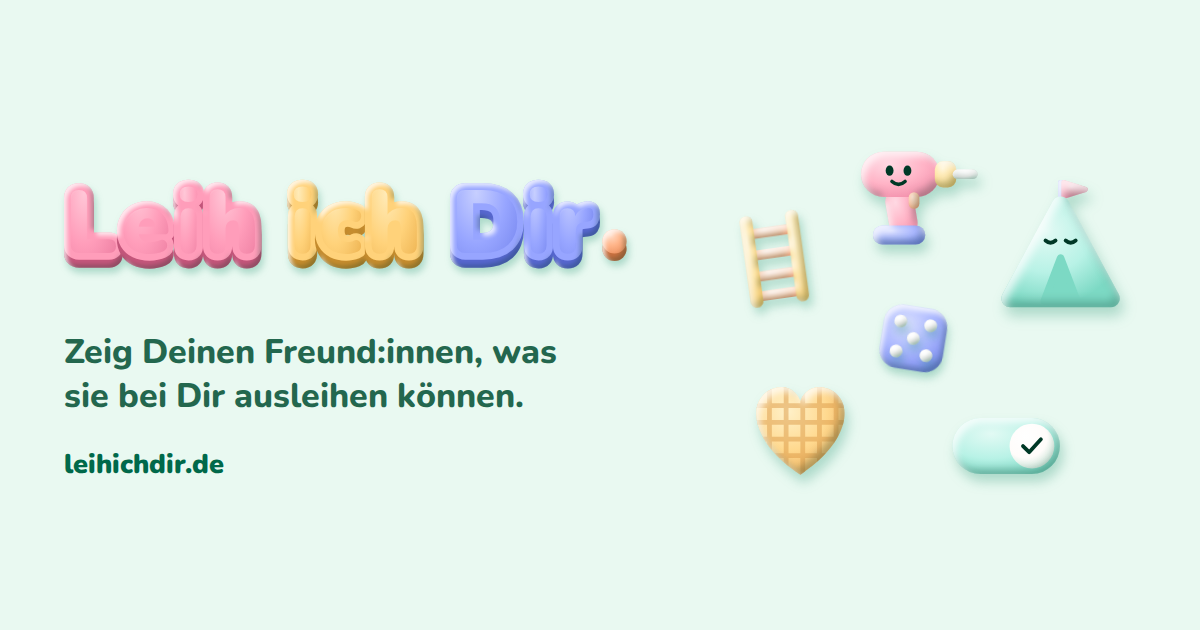
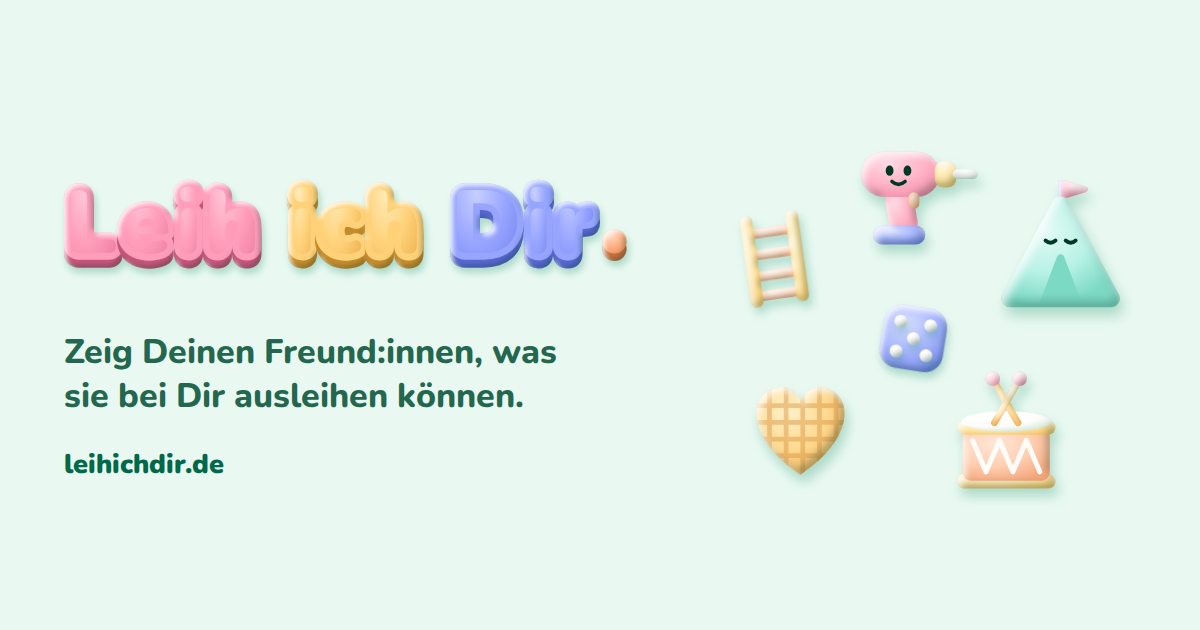
Startseite: eine kleine Trommel statt des Schalters
Unter den sechs Dingen im Hero stand ein Schalter, der sich beim
Antippen umlegte. An seiner Stelle steht jetzt eine kleine Trommel aus
Knete: Korpus in Pfirsich mit heller Schnuerung, Raender in Butter, ein
helles Fell, darueber zwei gekreuzte Schlegel. Sie springt wie die
anderen Dinge.

Sie ist das eine Ding, das klingt: ein kurzer, leiser Schlag, und nur,
wenn in den Einstellungen Toene eingeschaltet sind. Der Schlag geht
durch ton(), das diese Bedingung selbst prueft; der neue Klang
"trommel" ist ein heller Anschlag ueber einem tiefen, fallenden Ton,
weil Telefonlautsprecher den tiefen allein kaum wiedergeben. Er haengt
nicht an der Bewegung: Wer Bewegung abbestellt hat, hoert ihn trotzdem,
nur springt nichts.

Die Zusage "die Startseite bleibt ruhig, kein Ton" gilt damit bis auf
diese eine, ausdruecklich gewuenschte Ausnahme. Kommentare in app.js
und index.html sowie das README sagen es so; das README zaehlt jetzt
fuenf Klaenge statt vier.

Die Regeln und die Logik des Schalters sind fort (ding__spur,
ding__knauf, ding__haken, ist-aus). og.png ist mit tools/bilder.mjs
neu erzeugt, der Alternativtext in vier Seiten nachgezogen.

Tests: heroknete.mjs prueft, dass statt des Schalters eine Trommel
steht, dass sie springt und klingt, wenn Toene eingeschaltet sind, und
still bleibt, wenn nicht; die Leiter bleibt auch bei eingeschalteten
Toenen still. Gegenprobe: klingt nie, klingt immer — beide an ihrer
Stelle gefunden. Batterie: 31 Suiten, 0 mit offenen Punkten.
[…]

Changed region(s): [[0.8017, 0.6032, 0.8942, 0.8143]]

diff --git a/index.html b/index.html
@@ -42,13 +42,13 @@
 <meta property="og:image:type" content="image/png">
 <meta property="og:image:width" content="1200">
 <meta property="og:image:height" content="630">
-<meta property="og:image:alt" content="Die Wortmarke Leih ich Dir. aus Knete, daneben schweben sechs Dinge zum Verleihen: Bohrmaschine, Leiter, Zelt, Würfel, Waffeleisen und ein Schalter.">
+<meta property="og:image:alt" content="Die Wortmarke Leih ich Dir. aus Knete, daneben schweben sechs Dinge zum Verleihen: Bohrmaschine, Leiter, Zelt, Würfel, Waffeleisen und eine kleine Trommel.">
 <!-- Ohne diese Angabe zeigen Slack, Discord und X ein Randbildchen statt der grossen Karte. -->
 <meta name="twitter:card" content="summary_large_image">
 <meta name="twitter:title" content="LeihIchDir · Dinge an Freunde verleihen, ohne Konto">
 <meta name="twitter:description" content="Trage ein, was Du verleihst, und schick Deinen Freund:innen einen Link. Verschlüsselt im Browser, ohne Konto.">
 <meta name="twitter:image" content="https://leihichdir.de/assets/pics/og.png">
-<meta name="twitter:image:alt" content="Die Wortmarke Leih ich Dir. aus Knete, daneben schweben sechs Dinge zum Verleihen: Bohrmaschine, Leiter, Zelt, Würfel, Waffeleisen und ein Schalter.">
+<meta name="twitter:image:alt" content="Die Wortmarke Leih ich Dir. aus Knete, daneben schweben sechs Dinge zum Verleihen: Bohrmaschine, Leiter, Zelt, Würfel, Waffeleisen und eine kleine Trommel.">
 <!-- Strukturierte Angaben zur Anwendung.
 
      Warum das unter dieser CSP geht: Nicht weil script-src es erlaubte,
@@ -444,7 +444,8 @@
            Kissen und ohne Rahmen. Es traegt keine Aussage, die nicht schon
            im Satz stuende, und ist deshalb fuer Vorleseprogramme verborgen
            und nicht anwaehlbar. Wer ein Ding anfasst, bringt es zum
-           Springen (app.js, 8a); mehr geschieht nicht. Das Bild steht im
+           Springen (app.js, 8a); die Trommel klingt dazu leise, wenn Toene
+           eingeschaltet sind, mehr geschieht nicht. Das Bild steht im
            Dokument und nicht in einem <img>: Nur so erreichen es die Farben
            aus style.css und der Wechsel zwischen hell und dunkel. Das alte
            Bild, die Pfote, liegt in archiv/alter-stil/pics/. -->
@@ -536,15 +537,21 @@
             </span>
           </li>
           <li>
-            <span class="ding ding--schalter" data-ding="schalter">
+            <!-- Eine kleine Trommel. Sie springt wie die anderen; wer Toene
+                 eingeschaltet hat, hoert dazu einen leisen Schlag (app.js, 8a). -->
+            <span class="ding" data-ding="trommel">
               <svg viewBox="0 0 120 120" focusable="false">
                 <g class="ding__feder">
                   <g filter="url(#knete)">
-                    <rect class="ding__spur" x="12" y="42" width="96" height="50" rx="25"/>
-                    <g class="ding__knauf">
-                      <circle cx="83" cy="67" r="20" fill="url(#v-milch)"/>
-                      <path class="ding__haken" d="M75 67l5.5 5.5L91 61"/>
-                    </g>
+                    <rect x="16" y="92" width="88" height="13" rx="6.5" fill="url(#v-butter)"/>
+                    <rect x="21" y="52" width="78" height="46" rx="8" fill="url(#v-pfirsich)"/>
+                    <path class="trommel__schnur" d="M30 62L42 90L54 62L66 90L78 62L90 90"/>
+                    <rect x="16" y="44" width="88" height="13" rx="6.5" fill="url(#v-butter)"/>
+                    <ellipse cx="60" cy="45" rx="40" ry="9" fill="url(#v-milch)"/>
+                    <rect x="57" y="4" width="6" height="48" rx="3" fill="url(#v-waffel)" transform="rotate(-30 60 28)"/>
+                    <rect x="57" y="4" width="6" height="48" rx="3" fill="url(#v-waffel)" transform="rotate(30 60 28)"/>
+                    <circle cx="48" cy="7" r="6.5" fill="url(#v-kaugummi)"/>
+                    <circle cx="72" cy="7" r="6.5" fill="url(#v-kaugummi)"/>
                   </g>
                 </g>
               </svg>

diff --git a/app.js b/app.js
@@ -2799,8 +2799,9 @@
    * federt, haengt an einem Takt (requestAnimationFrame); er schlaeft, sobald
    * nichts mehr schwingt, und haelt an, solange der Reiter verborgen ist.
    *
-   * Gefeiert wird hier nichts, kein Konfetti und kein Ton: Die Startseite
-   * traegt das Vertrauensversprechen und bleibt ruhig. Wer Bewegung
+   * Gefeiert wird hier nichts, kein Konfetti: Die Startseite traegt das
+   * Vertrauensversprechen und bleibt ruhig. Einen Ton gibt es nur bei der
+   * Trommel, und nur fuer den, der Toene eingeschaltet hat. Wer Bewegung
    * abbestellt hat (ruhig()), bekommt keine, und die Daueranimationen haelt
    * das Stylesheet an. Das gilt auch fuer den Auftritt am Ende des
    * Abschnitts: Dinge, Wortmarke und Satz erscheinen beim ersten Zeigen
@@ -2864,8 +2865,8 @@
    * zusaetzlich auf den Klick und sprang nach einem langen Druck zweimal;
    * hier gibt es keinen Klick, denn die Dinge sind keine Schaltflaechen. */
 
-  var SPRUNG = { bohr: 1, leiter: 1.5, zelt: 0.85, wuerfel: 1.1, waffel: 0.9, schalter: 1 };
-  var DREHUNG = { bohr: 2.4, leiter: 0.8, zelt: 1, wuerfel: 3, waffel: 1.2, schalter: 0.6 };
+  var SPRUNG = { bohr: 1, leiter: 1.5, zelt: 0.85, wuerfel: 1.1, waffel: 0.9, trommel: 1.2 };
+  var DREHUNG = { bohr: 2.4, leiter: 0.8, zelt: 1, wuerfel: 3, waffel: 1.2, trommel: 0.8 };
 
   function Ding(node) {
     this.node = node;
@@ -2889,7 +2890,10 @@
   Ding.prototype.los = function (springen) {
     if (!this.gedrueckt) { return; }
     this.gedrueckt = false;
-    if (springen && this.art === 'schalter') { this.node.classList.toggle('ist-aus'); }
+    /* Die Trommel klingt, wenn Toene eingeschaltet sind; ton() fragt das
+       selbst. Unabhaengig von der Bewegung: Wer sie abbestellt hat, hoert
+       den Schlag trotzdem, nur springt nichts. */
+    if (springen && this.art === 'trommel') { ton('trommel'); }
     if (springen && !ruhig()) {
       this.s.v += 4.2;
       this.vy = -330 * (SPRUNG[this.art] || 1);
@@ -3531,7 +3535,11 @@
     plopp: [{ f: 660, bis: 880, ms: 90,  ab: 0 }],
     weg:   [{ f: 392, ms: 120, ab: 0 }],
     heim:  [{ f: 587, ms: 90,  ab: 0 }, { f: 880, ms: 90, ab: 110 }],
-    tada:  [{ f: 523, ms: 80,  ab: 0 }, { f: 659, ms: 80, ab: 80 }, { f: 784, ms: 110, ab: 160 }]
+    tada:  [{ f: 523, ms: 80,  ab: 0 }, { f: 659, ms: 80, ab: 80 }, { f: 784, ms: 110, ab: 160 }],
+    /* Ein Schlag auf die Trommel der Startseite: ein kurzer heller Anschlag
+       und darunter ein tiefer Ton, der faellt. Der helle Teil ist da, weil
+       Telefonlautsprecher den tiefen allein kaum wiedergeben. */
+    trommel: [{ f: 420, bis: 300, ms: 40, ab: 0 }, { f: 170, bis: 70, ms: 170, ab: 0 }]
   };
 
   function tonAn() {

diff --git a/style.css b/style.css
@@ -766,7 +766,7 @@ header.site { padding-block: var(--s-4); }
 .dinge li:nth-child(3) { left: 64%; top: 15%; width: 36%; }   /* Zelt */
 .dinge li:nth-child(4) { left: 35%; top: 42%; width: 24%; }   /* Wuerfel */
 .dinge li:nth-child(5) { left: 3%;  top: 59%; width: 34%; }   /* Waffeleisen */
-.dinge li:nth-child(6) { left: 53%; top: 64%; width: 32%; }   /* Schalter */
+.dinge li:nth-child(6) { left: 53%; top: 64%; width: 32%; }   /* Trommel */
 .ding {
   display: block; width: 100%; aspect-ratio: 1;
   cursor: pointer; -webkit-tap-highlight-color: transparent; touch-action: manipulation;
@@ -823,12 +823,8 @@ header.site { padding-block: var(--s-4); }
 .gesicht__mund, .gesicht--schlaf path { fill: none; stroke: var(--tinte); stroke-width: 3; stroke-linecap: round; }
 .zelt__tuer { fill: var(--minze-satt); stroke: var(--minze-satt); }
 .waffel__gitter path { fill: none; stroke: var(--waffel-gitter); stroke-width: 4; opacity: .5; }
-.ding__spur { fill: url(#v-minze); }
-.ding__knauf { transition: transform .6s var(--feder); }
-.ding__haken { fill: none; stroke: var(--tinte); stroke-width: 3.4; stroke-linecap: round; stroke-linejoin: round; transition: opacity .2s ease; }
-.ding--schalter.ist-aus .ding__spur { fill: url(#v-pfirsich); }
-.ding--schalter.ist-aus .ding__knauf { transform: translateX(-46px); }
-.ding--schalter.ist-aus .ding__haken { opacity: 0; }
+/* Die Schnuerung der Trommel: helle Knete auf dem Korpus, auch im Dunkeln. */
+.trommel__schnur { fill: none; stroke: var(--milch); stroke-width: 4.5; stroke-linecap: round; stroke-linejoin: round; }
 
 /* Vier Zusagen mit Haken, als Plaketten aus Knete auf dem Grund. Der Haken
    steht in einer Minzkugel, weil er dasselbe sagt wie in der Liste: hier

diff --git a/ueber.html b/ueber.html
@@ -39,13 +39,13 @@
 <meta property="og:image:type" content="image/png">
 <meta property="og:image:width" content="1200">
 <meta property="og:image:height" content="630">
-<meta property="og:image:alt" content="Die Wortmarke Leih ich Dir. aus Knete, daneben schweben sechs Dinge zum Verleihen: Bohrmaschine, Leiter, Zelt, Würfel, Waffeleisen und ein Schalter.">
+<meta property="og:image:alt" content="Die Wortmarke Leih ich Dir. aus Knete, daneben schweben sechs Dinge zum Verleihen: Bohrmaschine, Leiter, Zelt, Würfel, Waffeleisen und eine kleine Trommel.">
 <!-- Ohne diese Angabe zeigen Slack, Discord und X ein Randbildchen statt der grossen Karte. -->
 <meta name="twitter:card" content="summary_large_image">
 <meta name="twitter:title" content="Über LeihIchDir · Was der Server sieht">
 <meta name="twitter:description" content="Wie LeihIchDir die Liste im Browser verschlüsselt und was auf dem Server ankommt.">
 <meta name="twitter:image" content="https://leihichdir.de/assets/pics/og.png">
-<meta name="twitter:image:alt" content="Die Wortmarke Leih ich Dir. aus Knete, daneben schweben sechs Dinge zum Verleihen: Bohrmaschine, Leiter, Zelt, Würfel, Waffeleisen und ein Schalter.">
+<meta name="twitter:image:alt" content="Die Wortmarke Leih ich Dir. aus Knete, daneben schweben sechs Dinge zum Verleihen: Bohrmaschine, Leiter, Zelt, Würfel, Waffeleisen und eine kleine Trommel.">
 <!-- Die Schrift, die sofort zu sehen ist, wird vorab geholt; eine Datei traegt alle Staerken. -->
 <link rel="preload" href="assets/fonts/nunito.woff2" as="font" type="font/woff2" crossorigin>
 <link rel="stylesheet" href="assets/fonts/fonts.css">

diff --git a/datenschutz.html b/datenschutz.html
@@ -39,13 +39,13 @@
 <meta property="og:image:type" content="image/png">
 <meta property="og:image:width" content="1200">
 <meta property="og:image:height" content="630">
-<meta property="og:image:alt" content="Die Wortmarke Leih ich Dir. aus Knete, daneben schweben sechs Dinge zum Verleihen: Bohrmaschine, Leiter, Zelt, Würfel, Waffeleisen und ein Schalter.">
+<meta property="og:image:alt" content="Die Wortmarke Leih ich Dir. aus Knete, daneben schweben sechs Dinge zum Verleihen: Bohrmaschine, Leiter, Zelt, Würfel, Waffeleisen und eine kleine Trommel.">
 <!-- Ohne diese Angabe zeigen Slack, Discord und X ein Randbildchen statt der grossen Karte. -->
 <meta name="twitter:card" content="summary_large_image">
 <meta name="twitter:title" content="Datenschutz · LeihIchDir">
 <meta name="twitter:description" content="Welche Daten LeihIchDir verarbeitet, auf welcher Rechtsgrundlage und wie lange.">
 <meta name="twitter:image" content="https://leihichdir.de/assets/pics/og.png">
-<meta name="twitter:image:alt" content="Die Wortmarke Leih ich Dir. aus Knete, daneben schweben sechs Dinge zum Verleihen: Bohrmaschine, Leiter, Zelt, Würfel, Waffeleisen und ein Schalter.">
+<meta name="twitter:image:alt" content="Die Wortmarke Leih ich Dir. aus Knete, daneben schweben sechs Dinge zum Verleihen: Bohrmaschine, Leiter, Zelt, Würfel, Waffeleisen und eine kleine Trommel.">
 <!-- Die Schrift, die sofort zu sehen ist, wird vorab geholt; eine Datei traegt alle Staerken. -->
 <link rel="preload" href="assets/fonts/nunito.woff2" as="font" type="font/woff2" crossorigin>
 <link rel="stylesheet" href="assets/fonts/fonts.css">

diff --git a/impressum.html b/impressum.html
@@ -39,13 +39,13 @@
 <meta property="og:image:type" content="image/png">
 <meta property="og:image:width" content="1200">
 <meta property="og:image:height" content="630">
-<meta property="og:image:alt" content="Die Wortmarke Leih ich Dir. aus Knete, daneben schweben sechs Dinge zum Verleihen: Bohrmaschine, Leiter, Zelt, Würfel, Waffeleisen und ein Schalter.">
+<meta property="og:image:alt" content="Die Wortmarke Leih ich Dir. aus Knete, daneben schweben sechs Dinge zum Verleihen: Bohrmaschine, Leiter, Zelt, Würfel, Waffeleisen und eine kleine Trommel.">
 <!-- Ohne diese Angabe zeigen Slack, Discord und X ein Randbildchen statt der grossen Karte. -->
 <meta name="twitter:card" content="summary_large_image">
 <meta name="twitter:title" content="Impressum · LeihIchDir">
 <meta name="twitter:description" content="Anbieterkennzeichnung nach § 5 TMG für leihichdir.de.">
 <meta name="twitter:image" content="https://leihichdir.de/assets/pics/og.png">
-<meta name="twitter:image:alt" content="Die Wortmarke Leih ich Dir. aus Knete, daneben schweben sechs Dinge zum Verleihen: Bohrmaschine, Leiter, Zelt, Würfel, Waffeleisen und ein Schalter.">
+<meta name="twitter:image:alt" content="Die Wortmarke Leih ich Dir. aus Knete, daneben schweben sechs Dinge zum Verleihen: Bohrmaschine, Leiter, Zelt, Würfel, Waffeleisen und eine kleine Trommel.">
 <!-- Die Schrift, die sofort zu sehen ist, wird vorab geholt; eine Datei traegt alle Staerken. -->
 <link rel="preload" href="assets/fonts/nunito.woff2" as="font" type="font/woff2" crossorigin>
 <link rel="stylesheet" href="assets/fonts/fonts.css">

diff --git a/README.md b/README.md
@@ -287,11 +287,11 @@ heißt sie „Borrow it from me.“. Der Titel bleibt für Vorleseprogramme im
 Dokument.
 
 Neben ihr schweben sechs Dinge, ein loser Haufen: Bohrmaschine, Leiter,
-Zelt, Würfel, Waffeleisen, ein Schalter. Sie sagen, wofür die Liste da ist, und
-tragen keine Aussage, die nicht schon im Satz stünde; sie sind deshalb für
-Vorleseprogramme verborgen und nicht anwählbar. Wer eines anfasst, bringt es
-zum Springen. Mehr geschieht nicht — kein Konfetti, kein Ton —, denn die
-Startseite bleibt ruhig.
+Zelt, Würfel, Waffeleisen, eine kleine Trommel. Sie sagen, wofür die Liste da
+ist, und tragen keine Aussage, die nicht schon im Satz stünde; sie sind
+deshalb für Vorleseprogramme verborgen und nicht anwählbar. Wer eines anfasst,
+bringt es zum Springen. Die Trommel klingt dazu leise, wenn Töne eingeschaltet
+sind. Mehr geschieht nicht, kein Konfetti, denn die Startseite bleibt ruhig.
 
 Beim ersten Zeigen der Startseite treten die drei nacheinander auf: erst die
 Dinge, dann Wort für Wort die Marke, dann Satz und Aufruf, zusammen gut
@@ -350,10 +350,13 @@ fünfzig Gegenständen nicht lauter wird, sondern nützlicher — und es überle
 
 **Töne** entstehen über die Web Audio API, ohne eine einzige Datei: Der
 Richtlinie fehlt `media-src`, es greift `default-src 'self'`, und `data:` ist
-allein für Bilder freigegeben. Vier Klänge unter einer Viertelsekunde,
-standardmäßig aus, Schalter in den Einstellungen.
+allein für Bilder freigegeben. Fünf Klänge unter einer Viertelsekunde,
+standardmäßig aus, Schalter in den Einstellungen. Vier davon gehören zum
+Spielerischen der eigenen Liste, der fünfte ist der Schlag der Trommel auf der
+Startseite.
 
-**Ruhig bleibt es** auf der Startseite, die das Vertrauensversprechen trägt,
+**Ruhig bleibt es** auf der Startseite, die das Vertrauensversprechen trägt
+(bis auf die Trommel, wer Töne eingeschaltet hat und sie anfasst),
 beim Freund im Ansehen-Modus, in den neun Sekunden nach einem Löschen, die dem
 Rückweg gehören, und in jeder Fehlermeldung.
 
